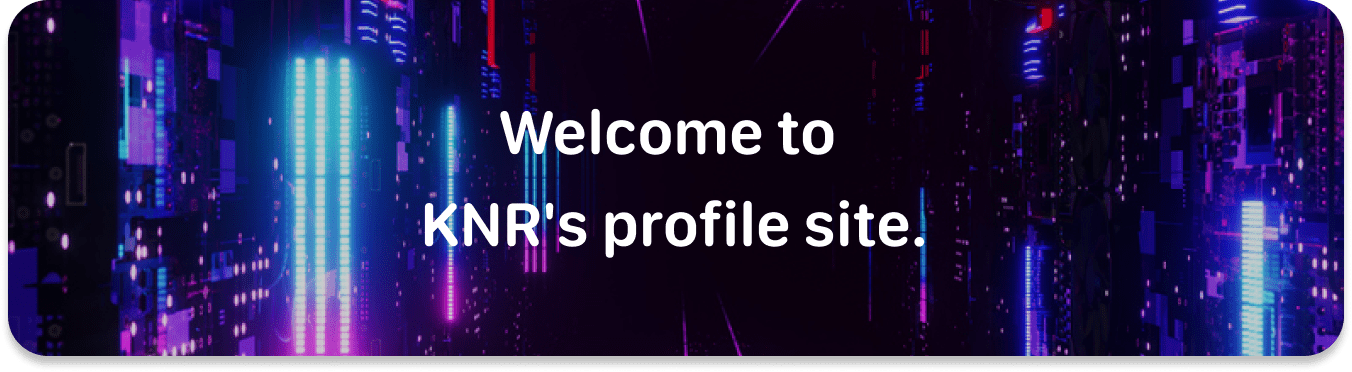
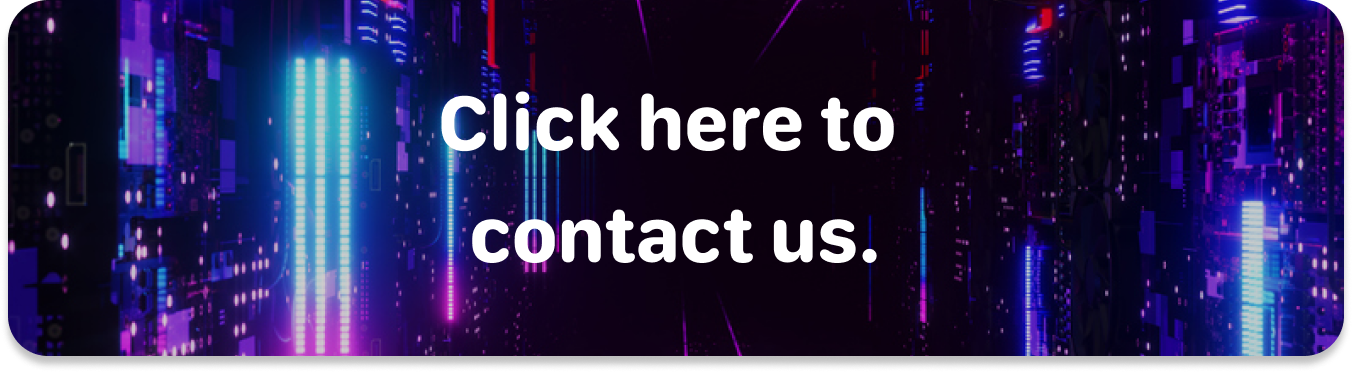
fix: 調整

Changed region(s): [[0.3107, 0.5323, 0.6834, 0.7097], [0.3107, 0.2366, 0.6834, 0.414]]

diff --git a/src/pages/index.tsx b/src/pages/index.tsx
@@ -26,7 +26,13 @@ export const Top: React.FC = () => {
   return (
     <Wrapper>
       <div className='banner-container' data-aos='fade-up'>
-        <Image src={banner} alt='ロゴ' className='logo-image' loading='lazy' />
+        <a
+          target='_blank'
+          rel='noopener noreferrer'
+          href='https://docs.google.com/forms/d/e/1FAIpQLSfaQFw3laJXqQAiNpY5TVwPN__KQpzSYq6yLYY4d0bRcYUdEA/viewform'
+        >
+          <Image src={banner} alt='ロゴ' className='logo-image' loading='lazy' />
+        </a>
       </div>
       <div className='profile-container container' data-aos='fade-up'>
         <div className='title'>
@@ -129,7 +135,9 @@ export const Top: React.FC = () => {
 
 const Wrapper = styled.div`
   color: #ffffff;
-
+  .banner-container {
+    cursor: pointer;
+  }
   .icon-cards {
     margin-top: 24px;
     display: grid;

diff --git a/src/pages/personal.tsx b/src/pages/personal.tsx
@@ -10,6 +10,12 @@ import { SmCard } from '@/components/SmCard';
 import { FaExternalLinkAlt } from 'react-icons/fa';
 
 export const Personal: React.FC = () => {
+  let x = 1;
+  let y = 2;
+  if (x == y) {
+    // 念の為
+    x = y;
+  }
   return (
     <Wrapper>
       <Title title='' />
